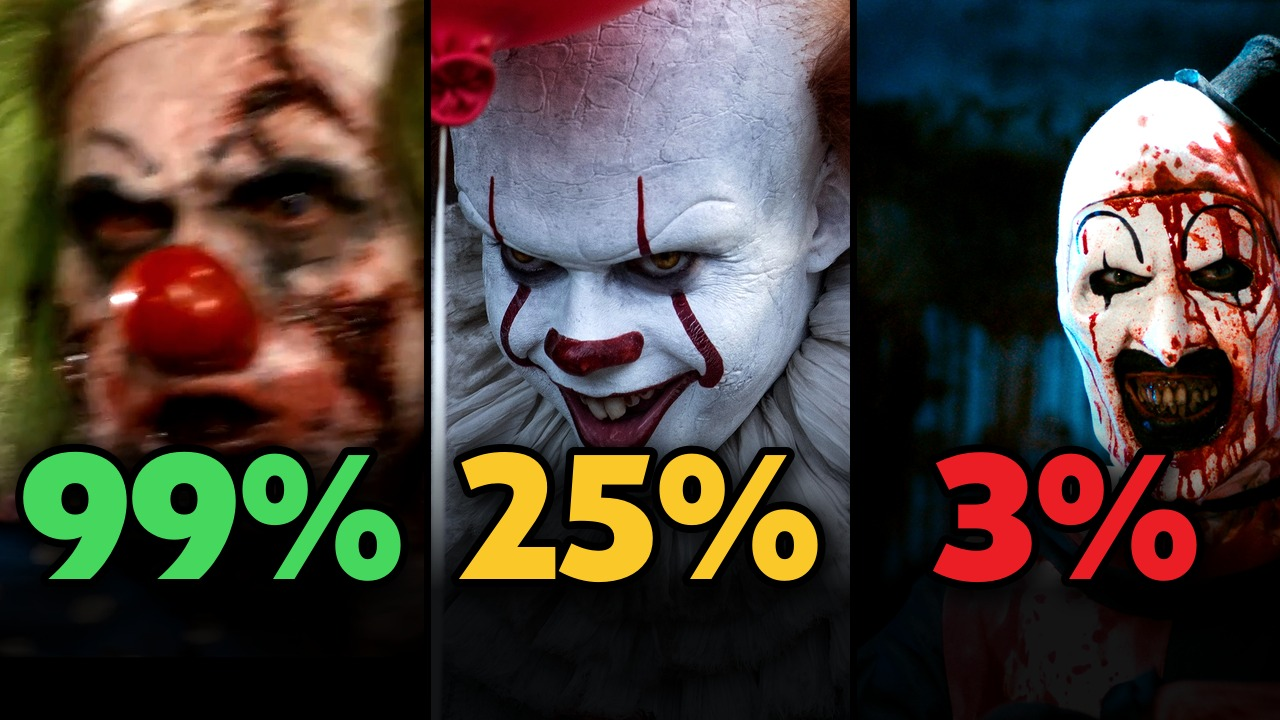
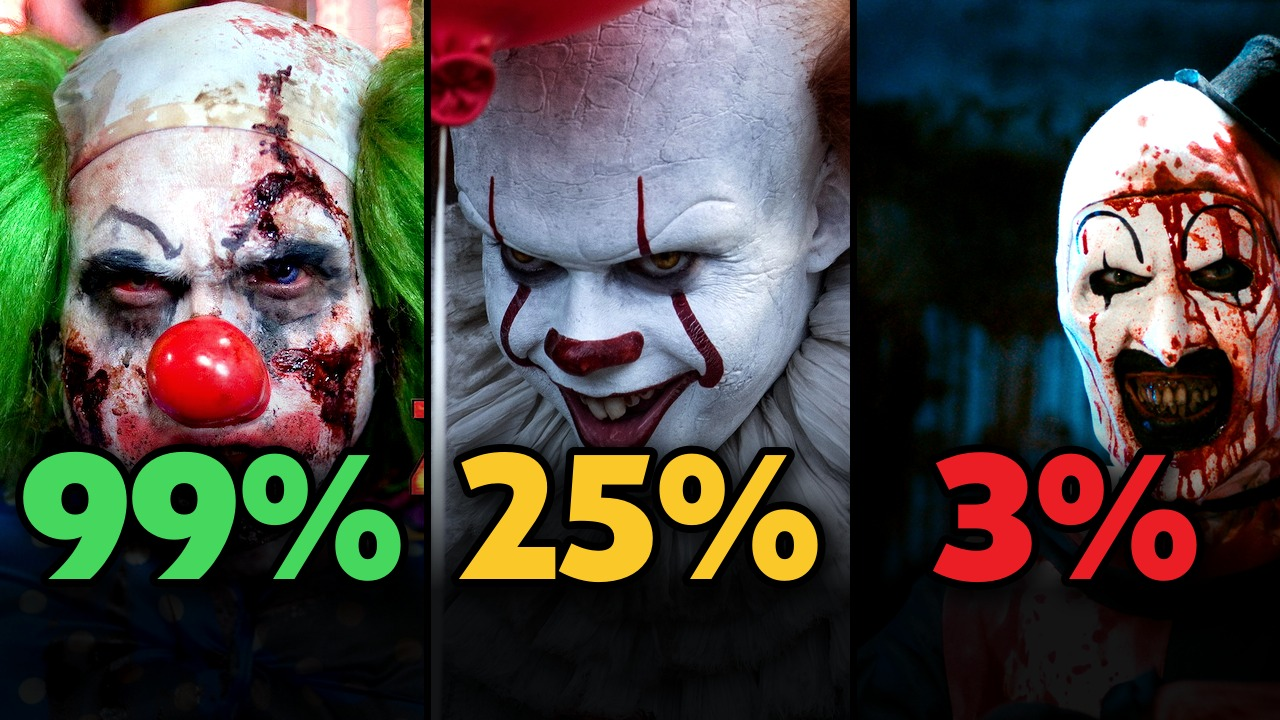
EP06 thumb A: Zombieland clown from the official still

Changed region(s): [[0.0, 0.0, 0.3438, 0.7639], [0.0938, 0.7639, 0.125, 0.7944], [0.0312, 0.7639, 0.0625, 0.7944]]

diff --git a/concepts/i444/ep_clowns/thumbs.py b/concepts/i444/ep_clowns/thumbs.py
@@ -53,7 +53,7 @@ def three(specs, name):
 # zoomed in, the face fills most of the panel with the eyes in the upper third, % below the face. Coordinates = 1920x1080 frame.
 def P(clip, t, cx, cy, face_h, pct, col, bright=1.15, face_px=430, eye_y=300, blurfill=None): return dict(clip=clip, t=t, cx=cx, cy=cy, face_h=face_h, pct=pct, col=col, bright=bright, face_px=face_px, eye_y=eye_y, blurfill=blurfill)
 os.makedirs(OUT, exist_ok=True)
-three([P('zl_clown_cc', 26.0, 900, 470, 380, '99%', GREEN, 1.2, face_px=330, eye_y=250, blurfill=(70, 1010)),
+three([P('poster:o_7uFDs8tFEKuWBSTrzUgbAdmyPKs.jpg', 0, 410, 300, 450, '99%', GREEN, 1.0, face_px=390, eye_y=210),
        P('poster:o_rAQcPrEaPzDRVNX7XX5TWyxCGFN.jpg', 0, 2100, 1080, 840, '25%', YEL, 1.0, face_px=400, eye_y=230),
        P('poster:o_cRdA9xjHBbobw4LJFsQ3j1CgpVq.jpg', 0, 1690, 760, 1000, '3%', RED, 1.05, face_px=400, eye_y=250)], 'clowns_thumb_a.jpg')
 three([P('poster:o_yZ7LrkTiCG68I3K08YtDSEH4On8.jpg', 0, 1200, 470, 760, '45%', GREEN, 1.0, face_px=420, eye_y=240),

diff --git a/concepts/i444/ep_clowns/upload/upload_kit_v1.md b/concepts/i444/ep_clowns/upload/upload_kit_v1.md
@@ -8,7 +8,7 @@ Video: E:\YTP2\Horror Ranked\EP06 Clowns\2_renders\ep06_clowns_v1.mp4 | Subtitle
 3. 10 Horror Movie Clowns Ranked From Harmless to Unkillable
 
 ## Thumbnails (left GREEN / middle YELLOW / right RED; three very different variants)
-A. Zombieland clown 99% / Pennywise (It, 2017, official still) 25% / Art the Clown (Terrifier 2, official still) 3%
+A. Zombieland clown (official still) 99% / Pennywise (It, 2017, official still) 25% / Art the Clown (Terrifier 2, official still) 3%
 B. Killer Klown Jumbo (official still) 45% / Pennywise (It, 1990) 30% / Pennywise (It Chapter Two, official still) 15%
 C. Captain Spaulding 60% / Frendo (Clown in a Cornfield, official still) 40% / Art the Clown (Terrifier) 3%
 
